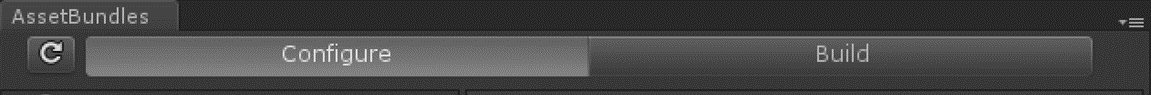
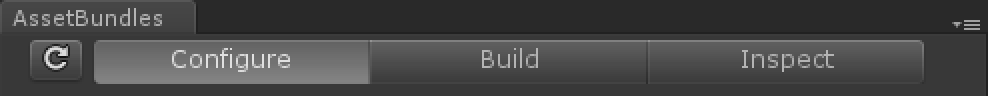
starting work on doc'ing inspector.

diff --git a/Documentation/com.unity.assetbundlebrowser.md b/Documentation/com.unity.assetbundlebrowser.md
@@ -2,15 +2,13 @@
 
 This tool enables the user to view and edit the configuration of asset bundles for their Unity project. It will block editing that would create invalid bundles, and inform you of any issues with existing bundles. It also provides basic build functionality.
 
-Use this tool as an alternative to selecting assets and setting their asset bundle manually in the inspector. It can be dropped into any Unity project with a version of 5.6 or greater. It will create a new menu item in __Window__ > __AssetBundle Browser__. The bundle configuration and build functionality are split into two tabs within the new window.
+Use this tool as an alternative to selecting assets and setting their asset bundle manually in the inspector. It can be dropped into any Unity project with a version of 5.6 or greater. It will create a new menu item in __Window__ > __AssetBundle Browser__. The bundle configuration, build functionality, and build-bundle inspection are split into three tabs within the new window.
 
 ![BrowserHeader](/Documentation/images/browser_header.png)
 
 ### Requires Unity 5.6+
 
 # Usage - Configure
-
-Note: this utility is in a pre-release state, and accordingly we recommend creating a backup of your project before using it.
 
 This window provides an explorer like interface to managing and modifying asset bundles in your project. When first opened, the tool will parse all bundle data in the background, slowly marking warnings or errors it detects. It does what it can to stay in sync with the project, but cannot always be aware of activity outside the tool. To force a quick pass at error detection, or to update the tool with changes made externally, hit the Refresh button in the upper left.
 
@@ -156,8 +154,8 @@ The Build tab provides basic build functionality to get you started using asset 
 
 * *Build* - Executes build.
 
-# Usage - Inspect (Beta Feature)
-This is a new tab added as a currently-beta feature.  Use it to inspect the contents of bundles that have already been built. 
+# Usage - Inspect
+This tab enables you to inspect the contents of bundles that have already been built. 
 ### Usage
 * Type in a bundle path, or find one using the 'Browse' button.  
 * Select any bundle listed to see details:
@@ -166,7 +164,3 @@ This is a new tab added as a currently-beta feature.  Use it to inspect the cont
   * Preload Table - full contents of bundle
   * Container - only explicitly added items
   * Dependencies - bundles that the current bundle depends on
-
-### Issues
-* If your "bundle path" contains duplicate bundles, you will be unable to view them, and will get errors in the log.  This is most often seen if you had a file structure like "MyBundles/Build1/" and "MyBundles/Build2/" and you pointed the path to just "MyBundles"
-* The tool does not yet handle bundles that have had the hash appended to the bundle name (using "append hash" build option).
